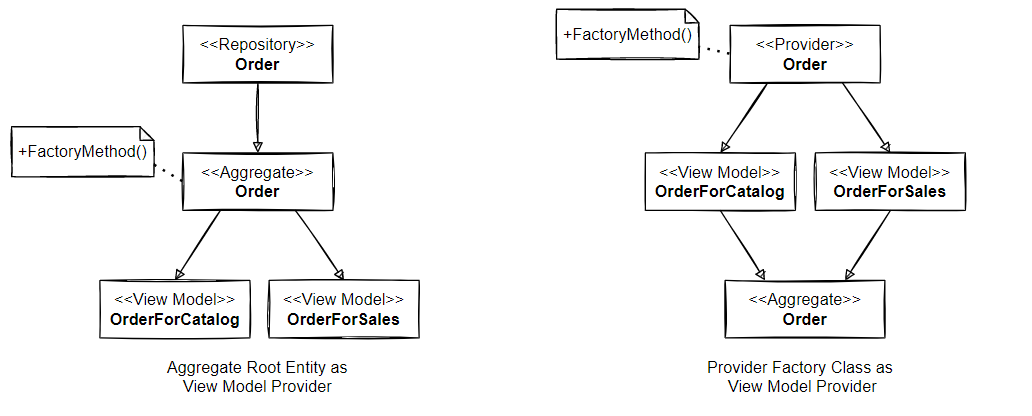
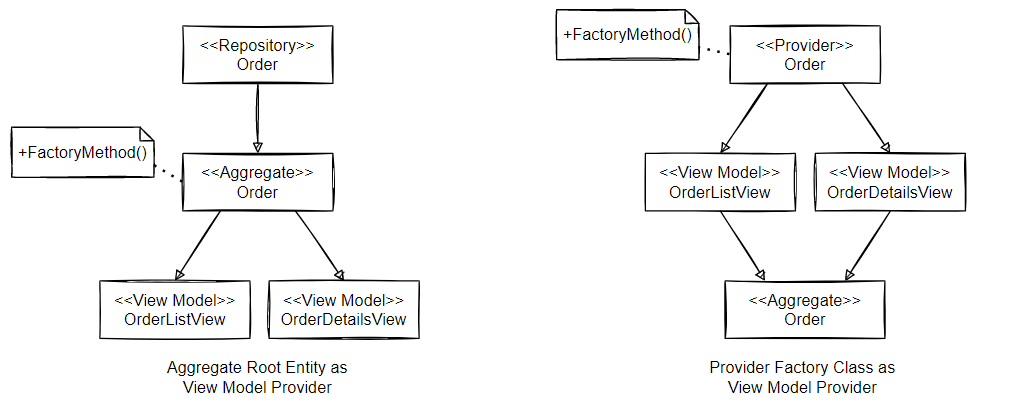
Update

diff --git a/README.md b/README.md
@@ -146,8 +146,7 @@ Following checklist helps us to facilitate the orchestration of ngModules:<br/>
 - Transitive dependencies aren't visible, **reexport** them to make them available to other modules
 
 As the number of module types can become overwhelming and difficult to apply correctly, it can lead developers to make incorrect decisions.
-Every module type serves a different purpose! In the context of domain architecture and partitioning, domain modules serve as a foundation
-for our DDD development approach.
+Every module type serves a different purpose! In the context of domain architecture and partitioning, domain modules serve as a foundation for our DDD development approach.
 
 **» Bounded Context Pattern**<br/>
 
@@ -381,7 +380,7 @@ In the classic object-oriented programming the software model lacked of explicit
 The DDD aggregate pattern takes a contextual approach by embracing groupings of entities and value objects that are modeled around business rules and transactional boundaries inside the
 software model making the system easier to reason about. One of the most important aspects of the aggregate pattern is to protect it from being invalid and having a consistent state.
 
-**» Aggregate Entity Checklist:**
+**» Aggregate Entity Checklist**
 
 - It's a top-level core business object
 - It's bounded from the viewpoint of a business use cases
@@ -402,7 +401,7 @@ if they don't share invariants in the domain:
 
 ![](src/assets/images/Aggregate_BR.PNG)
 
-**» From the Viewpoint of Frontend Development:**
+**» From the Viewpoint of Frontend Development**
 
 - Aggregates don't publish domain events and won't get out‐of‐sync due to usage of async observables
 - Inter-Aggregate references established by global IDs (primary keys) rather than by object declarations is optional
@@ -441,7 +440,7 @@ The aggregate entity should be negotiated with the Web API as a conceptual whole
 
 ![](src/assets/images/Aggregate_ACL.PNG)
 
-**» Design Considerations:**
+**» Design Considerations**
 
 **Q**: Is building aggregates a poor choice, if requests for aggregates are rare?<br>
 **A**: It all depends on the complexity of the application, particularly of the domain layer!
@@ -463,7 +462,7 @@ The view model should hold the data necessary to render the view if:
 - View demands a subset of one or more domain model properties
 - View demands additional properties mixed up with view related properties
 
-**» View Model Checklist:**<br/>
+**» View Model Checklist**<br/>
 
 - Must have an ID property
 - Should be immutable and has properties of type `readonly string`
@@ -473,7 +472,7 @@ The view model should hold the data necessary to render the view if:
 - The name ends with the suffix -View e.g. UserProfileView, UserListView, UserDetailsView
 - The name of the view model is equivalent to the name of the view component class e.g. UserListComponent : UserListView
 
-**Example**
+**» Example**
 
 ```
 class OrderViewModel {
@@ -534,13 +533,13 @@ Due to performance implications, it's not recommendable to bind `getters` in the
 Hardcoding transformation methods in the view model class causes tight coupling. A better approach is to process data transformations such as filtering, sorting, grouping or destructuring etc.
 in a reactive stream and hand over the result to an object factory.
 
-**» (Domain) Object Factory Pattern:**<br/>
+**» (Domain) Object Factory Pattern**<br/>
 
 Objects can be constructed using regular constructors or using static factories. The object factory pattern helps us to build complex objects like aggregates that involve the
 creation of other related objects and more importantly assists in type safety with ES6+ features such as spread, rest, destructuring where type information might get lost.
 Object factories and mappers help us to manage immutability by retrieving new instances when needed, instead of using generic JSON.parse/.stringify or deep-cloning algorithms.
 
-**Example 1**
+**» Example 1**
 
 ```
 class OrderFactory {
@@ -554,7 +553,7 @@ newOrder.propertyA = ...
 newOrder.propertyB = ...
 ```
 
-**Example 2**
+**» Example 2**
 
 ```
 interface IOrder{
@@ -690,7 +689,7 @@ The structural mapper pattern performs a bidirectional transfer of data structur
 class instances used in arrays instead of having seperated JSON object declarations and type annotations. Interfaces help us to assure
 the correct data structure as contracts between the target and the source object.
 
-**Option 1** - Constructor Assignment
+Option 1 - Constructor Assignment
 
 ```
 interface IOrder {
@@ -714,7 +713,7 @@ class Order {
 const orders = [new Order({id:22,status:Status.Pending,total:450})];
 ```
 
-**Option 2** - Constructor Assignment with ES6+
+Option 2 - Constructor Assignment with ES6+
 
 ```
 class Order {
@@ -745,7 +744,7 @@ class Order {
 const orders = [new Order({id:22,status:Status.Pending})];
 ```
 
-**Option 3** - Constructor Assignment with Index Signature
+Option 3 - Constructor Assignment with Index Signature
 
 ```
 class Order {
@@ -781,7 +780,7 @@ const orders = [new Order({id:33,status:Status.PENDING})];
 
 Unfortunately, index signature assignments don't support access modifier (public, private, protected).
 
-**Option 4** - Mapper Assignment
+Option 4 - Mapper Assignment
 
 ```
 class OrderMapper {
@@ -806,7 +805,7 @@ class OrderMapper {
 const orders = [OrderMapper.mapToOrder(new Order(), {id:33,status:Status.PENDING})];
 ```
 
-**Option 5** - Builder Pattern
+Option 5 - Builder Pattern
 
 ```
 class Order {
@@ -832,14 +831,14 @@ class Order {
 const orders = [new Order().setAddress({...}).setCustomer({...})];
 ```
 
-**» Mapper Checklist:**<br/>
+**» Mapper Checklist**<br/>
 
 - Bidirectional mapping is inevitable when using model-driven forms
 - The mapper pattern in the repository service assists to build pure models 
 - The mapper pattern in the application service assists to build view models 
 - Don't map to view models in the repository service because view models may require multiple sources
 
-**» REST, HATEOAS & Mapping.**<br/>
+**» REST, HATEOAS & Mapping**<br/>
 
 When building multi-layered, distributed web applications, data transformation is among the major challenges that occur when data traverses
 all layers (data flows up and down the stack). If the domain layer has been replicated to the client side, we might need to transform the
@@ -850,10 +849,10 @@ server response schema to a complex object graph (domain model):
 For example, HATEOAS embraces hyperlinks between external resources to make transitions through the applications state by navigating links.
 However, mapping links to a client-side domain model isn't possible! When consuming REST APIs, very often multiple HTTP request need to be performed
 asynchronously to build a model for a specific use case in the presentation layer. If the applied HATEOAS pattern forms links in the response schema, it 
-may constrain the presentation layer to incorporate with REST APIs in a synchronous way. **UX designers usually don't model their interaction-, navigation- or screen patterns around hypermedia APIs**.
-Furthermore, the Angular router engine doesn't comply with the URI templates of hypermedia formats. HATEOAS might decouple the backend from the frontend,
-but it couples the frontend to the backend. Although the Angular router engine adheres to the navigational behaviour of hypermedia systems, we should avoid
-HATEOAS for web frontend applications!
+may constrain the presentation layer to incorporate with REST APIs in a synchronous way. **UX designers usually don't model their interaction-, navigation- or 
+screen patterns around hypermedia APIs**. Furthermore, the Angular router engine doesn't comply with the URI templates of hypermedia formats. HATEOAS might decouple 
+the backend from the frontend, but it couples the frontend to the backend. Although the Angular router engine adheres to the navigational behaviour of hypermedia systems,
+we should avoid HATEOAS for web frontend applications!
 
 ## Services
 
@@ -902,9 +901,9 @@ class OrderService {
 }
 ``` 
 
-When application services carry out use cases of the application, it might be a better idea to implement use cases that contain less logic directly in view controllers, like in the
-MVC pattern. However, we don't want to hide use cases from the rest of the application! In addition, we might want to share logic with other Angular components 
-such as resolvers, guards and interceptors. But the main reason why we put logic in application services instead of view controllers is that during 
+When application services carry out use cases of the application, it might be a better idea to implement use cases that contain less logic directly in view controllers, 
+like in the MVC pattern. However, we don't want to hide use cases from the rest of the application! In addition, we might want to share logic with other Angular 
+components such as resolvers, guards and interceptors. But the main reason why we put logic in application services instead of view controllers is that during 
 a router navigation event our components will be destroyed. 
 
 **» Domain Service Objects**<br/>
@@ -1076,7 +1075,7 @@ be perceived as overkill for small applications and can lead to the layered cake
 However, in an agile process like scrum where requirements and complexity can't be detected until it's too late, it would be more efficient to take the risk for introducing 
 a possibly unnecessary pass-through layer. "You are gonna need it"!
 
-**» CQRS with Commands and Queries using the Command Pattern**<br/>
+**» CQRS using the Command Pattern**<br/>
 
 @TODO [text]
 @TODO [image]
